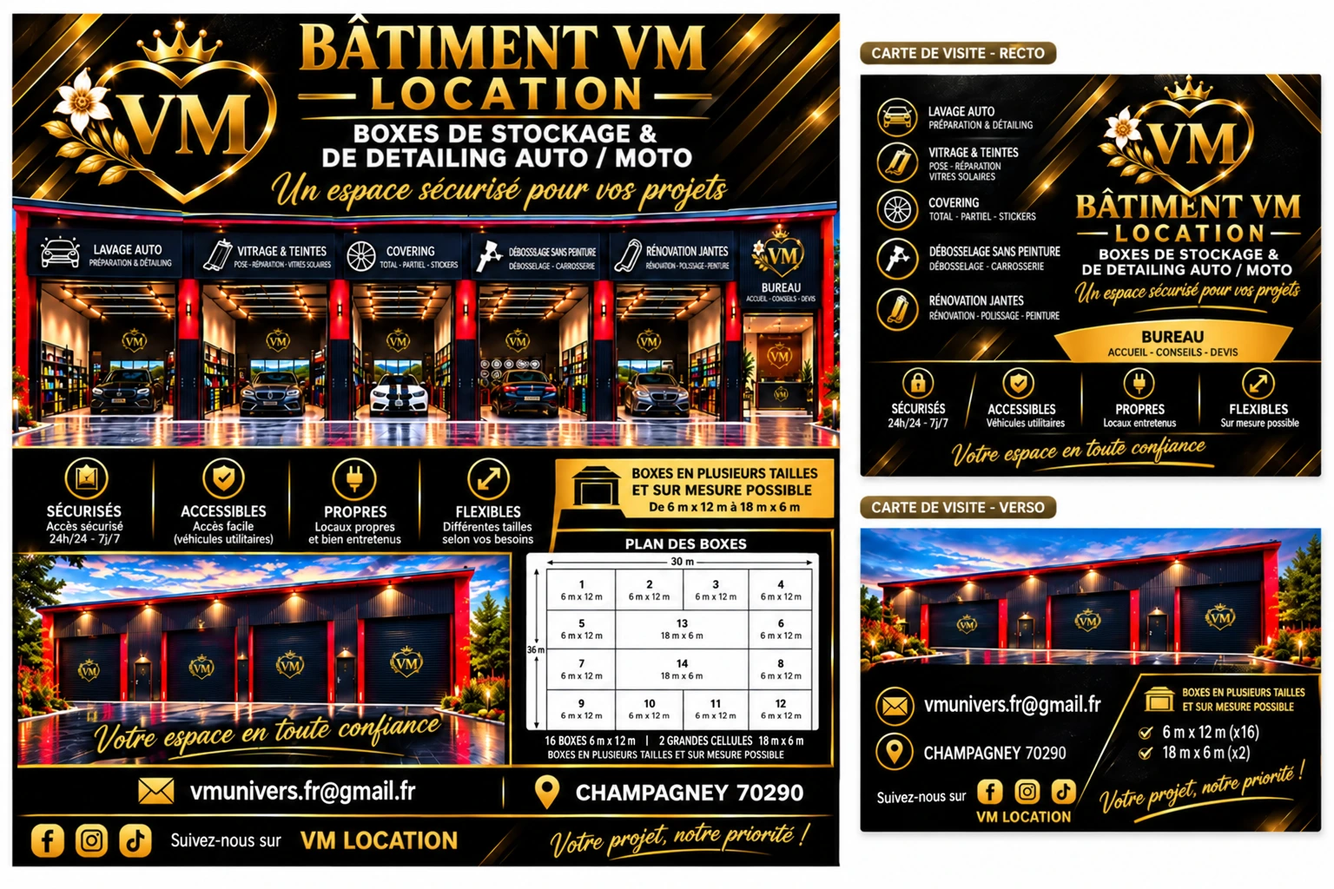
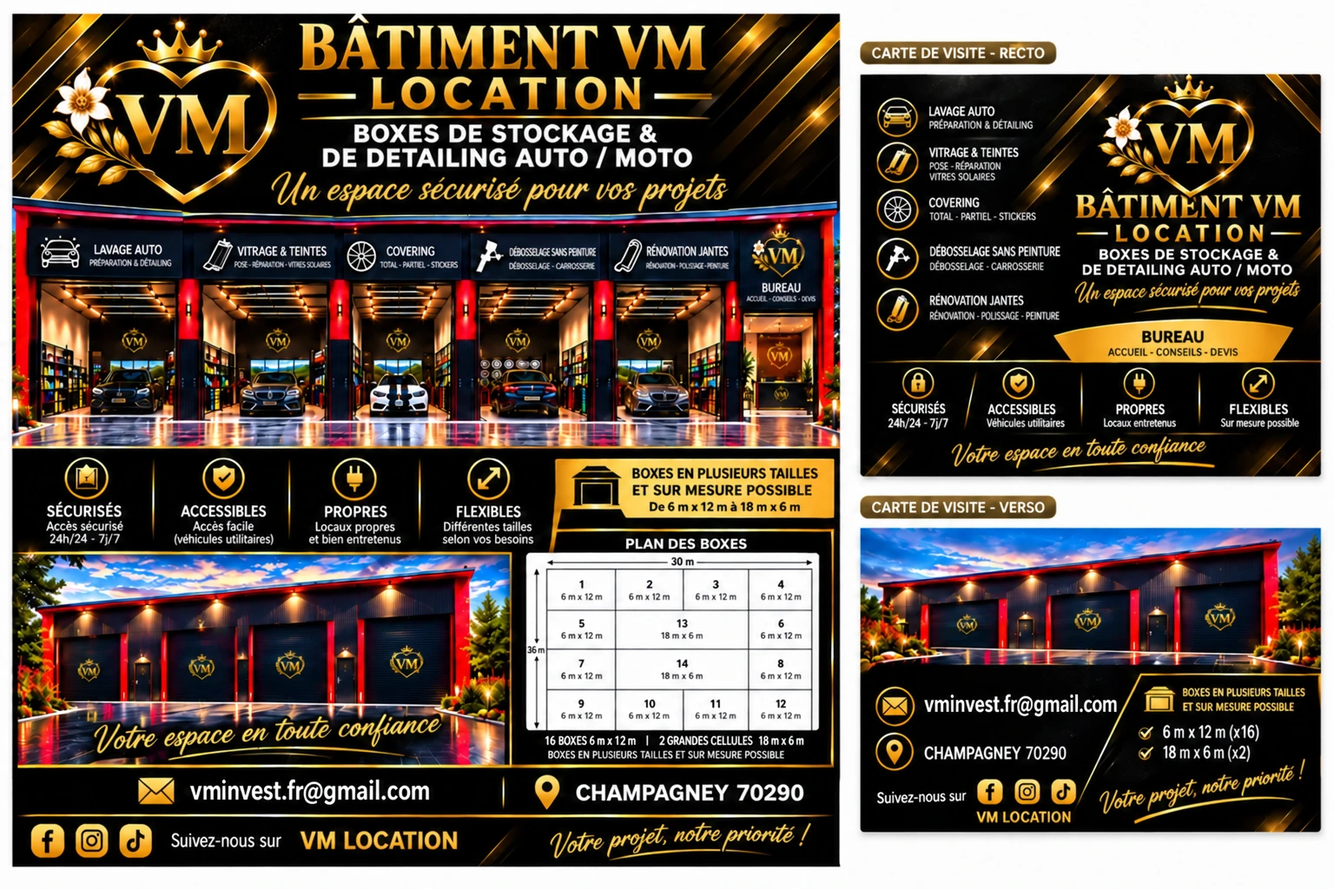
Corrige le contact des projets VM vers vminvest

diff --git a/boutique/index.html b/boutique/index.html
@@ -54,10 +54,10 @@ main{max-width:1100px;margin:0 auto;padding:10px 16px 50px}h2{font:italic 800 1.
 <header class="hero"><img src="/img/logo-vm-officiel.png" alt="Logo VM couronne" width="340" height="340"><h1>VM BOUTIQUE</h1><p>Les vêtements et goodies de l'univers VM. Imprimés à la demande et envoyés directement chez toi.</p><span class="soon">BIENTÔT DISPONIBLE</span></header>
 <main>
 <h2>La collection</h2>
-<div class="grid"><article class="p"><img src="/img/boutique/tshirt-noir.webp" alt="T-shirt VM noir" width="400" height="400" loading="lazy"><div class="pi"><h3>T-shirt VM noir</h3><p>Coton bio, logo couronne doré</p><div class="pr">29 € <small>prix prévu</small></div><a class="b" href="mailto:vmunivers.fr@gmail.fr?subject=VM%20Boutique%20-%20pr%C3%A9venez-moi%20%3A%20T-shirt%20VM%20noir&body=Bonjour%2C%20pr%C3%A9venez-moi%20quand%20%C2%AB%20T-shirt%20VM%20noir%20%C2%BB%20sera%20disponible.%20Taille%20%3A%20">🔔 Prévenez-moi</a></div></article><article class="p"><img src="/img/boutique/tshirt-blanc.webp" alt="T-shirt VM blanc" width="400" height="400" loading="lazy"><div class="pi"><h3>T-shirt VM blanc</h3><p>Coton bio, logo couronne</p><div class="pr">29 € <small>prix prévu</small></div><a class="b" href="mailto:vmunivers.fr@gmail.fr?subject=VM%20Boutique%20-%20pr%C3%A9venez-moi%20%3A%20T-shirt%20VM%20blanc&body=Bonjour%2C%20pr%C3%A9venez-moi%20quand%20%C2%AB%20T-shirt%20VM%20blanc%20%C2%BB%20sera%20disponible.%20Taille%20%3A%20">🔔 Prévenez-moi</a></div></article><article class="p"><img src="/img/boutique/sweat-noir.webp" alt="Sweat à capuche VM" width="400" height="400" loading="lazy"><div class="pi"><h3>Sweat à capuche VM</h3><p>Molleton épais, logo devant</p><div class="pr">49 € <small>prix prévu</small></div><a class="b" href="mailto:vmunivers.fr@gmail.fr?subject=VM%20Boutique%20-%20pr%C3%A9venez-moi%20%3A%20Sweat%20à%20capuche%20VM&body=Bonjour%2C%20pr%C3%A9venez-moi%20quand%20%C2%AB%20Sweat%20à%20capuche%20VM%20%C2%BB%20sera%20disponible.%20Taille%20%3A%20">🔔 Prévenez-moi</a></div></article><article class="p"><img src="/img/boutique/casquette.webp" alt="Casquette VM" width="400" height="400" loading="lazy"><div class="pi"><h3>Casquette VM</h3><p>Brodée, réglable</p><div class="pr">25 € <small>prix prévu</small></div><a class="b" href="mailto:vmunivers.fr@gmail.fr?subject=VM%20Boutique%20-%20pr%C3%A9venez-moi%20%3A%20Casquette%20VM&body=Bonjour%2C%20pr%C3%A9venez-moi%20quand%20%C2%AB%20Casquette%20VM%20%C2%BB%20sera%20disponible.%20Taille%20%3A%20">🔔 Prévenez-moi</a></div></article><article class="p"><img src="/img/boutique/mug.webp" alt="Mug VM" width="400" height="400" loading="lazy"><div class="pi"><h3>Mug VM</h3><p>Céramique 33 cl</p><div class="pr">15 € <small>prix prévu</small></div><a class="b" href="mailto:vmunivers.fr@gmail.fr?subject=VM%20Boutique%20-%20pr%C3%A9venez-moi%20%3A%20Mug%20VM&body=Bonjour%2C%20pr%C3%A9venez-moi%20quand%20%C2%AB%20Mug%20VM%20%C2%BB%20sera%20disponible.%20Taille%20%3A%20">🔔 Prévenez-moi</a></div></article><article class="p"><img src="/img/boutique/stickers.webp" alt="Stickers VM" width="400" height="400" loading="lazy"><div class="pi"><h3>Stickers VM</h3><p>Lot de 3, résistants à l'eau</p><div class="pr">6 € <small>prix prévu</small></div><a class="b" href="mailto:vmunivers.fr@gmail.fr?subject=VM%20Boutique%20-%20pr%C3%A9venez-moi%20%3A%20Stickers%20VM&body=Bonjour%2C%20pr%C3%A9venez-moi%20quand%20%C2%AB%20Stickers%20VM%20%C2%BB%20sera%20disponible.%20Taille%20%3A%20">🔔 Prévenez-moi</a></div></article><article class="p"><img src="/img/boutique/coque.webp" alt="Coque téléphone VM" width="400" height="400" loading="lazy"><div class="pi"><h3>Coque téléphone VM</h3><p>Pour la plupart des modèles</p><div class="pr">22 € <small>prix prévu</small></div><a class="b" href="mailto:vmunivers.fr@gmail.fr?subject=VM%20Boutique%20-%20pr%C3%A9venez-moi%20%3A%20Coque%20téléphone%20VM&body=Bonjour%2C%20pr%C3%A9venez-moi%20quand%20%C2%AB%20Coque%20téléphone%20VM%20%C2%BB%20sera%20disponible.%20Taille%20%3A%20">🔔 Prévenez-moi</a></div></article></div>
+<div class="grid"><article class="p"><img src="/img/boutique/tshirt-noir.webp" alt="T-shirt VM noir" width="400" height="400" loading="lazy"><div class="pi"><h3>T-shirt VM noir</h3><p>Coton bio, logo couronne doré</p><div class="pr">29 € <small>prix prévu</small></div><a class="b" href="mailto:vminvest.fr@gmail.com?subject=VM%20Boutique%20-%20pr%C3%A9venez-moi%20%3A%20T-shirt%20VM%20noir&body=Bonjour%2C%20pr%C3%A9venez-moi%20quand%20%C2%AB%20T-shirt%20VM%20noir%20%C2%BB%20sera%20disponible.%20Taille%20%3A%20">🔔 Prévenez-moi</a></div></article><article class="p"><img src="/img/boutique/tshirt-blanc.webp" alt="T-shirt VM blanc" width="400" height="400" loading="lazy"><div class="pi"><h3>T-shirt VM blanc</h3><p>Coton bio, logo couronne</p><div class="pr">29 € <small>prix prévu</small></div><a class="b" href="mailto:vminvest.fr@gmail.com?subject=VM%20Boutique%20-%20pr%C3%A9venez-moi%20%3A%20T-shirt%20VM%20blanc&body=Bonjour%2C%20pr%C3%A9venez-moi%20quand%20%C2%AB%20T-shirt%20VM%20blanc%20%C2%BB%20sera%20disponible.%20Taille%20%3A%20">🔔 Prévenez-moi</a></div></article><article class="p"><img src="/img/boutique/sweat-noir.webp" alt="Sweat à capuche VM" width="400" height="400" loading="lazy"><div class="pi"><h3>Sweat à capuche VM</h3><p>Molleton épais, logo devant</p><div class="pr">49 € <small>prix prévu</small></div><a class="b" href="mailto:vminvest.fr@gmail.com?subject=VM%20Boutique%20-%20pr%C3%A9venez-moi%20%3A%20Sweat%20à%20capuche%20VM&body=Bonjour%2C%20pr%C3%A9venez-moi%20quand%20%C2%AB%20Sweat%20à%20capuche%20VM%20%C2%BB%20sera%20disponible.%20Taille%20%3A%20">🔔 Prévenez-moi</a></div></article><article class="p"><img src="/img/boutique/casquette.webp" alt="Casquette VM" width="400" height="400" loading="lazy"><div class="pi"><h3>Casquette VM</h3><p>Brodée, réglable</p><div class="pr">25 € <small>prix prévu</small></div><a class="b" href="mailto:vminvest.fr@gmail.com?subject=VM%20Boutique%20-%20pr%C3%A9venez-moi%20%3A%20Casquette%20VM&body=Bonjour%2C%20pr%C3%A9venez-moi%20quand%20%C2%AB%20Casquette%20VM%20%C2%BB%20sera%20disponible.%20Taille%20%3A%20">🔔 Prévenez-moi</a></div></article><article class="p"><img src="/img/boutique/mug.webp" alt="Mug VM" width="400" height="400" loading="lazy"><div class="pi"><h3>Mug VM</h3><p>Céramique 33 cl</p><div class="pr">15 € <small>prix prévu</small></div><a class="b" href="mailto:vminvest.fr@gmail.com?subject=VM%20Boutique%20-%20pr%C3%A9venez-moi%20%3A%20Mug%20VM&body=Bonjour%2C%20pr%C3%A9venez-moi%20quand%20%C2%AB%20Mug%20VM%20%C2%BB%20sera%20disponible.%20Taille%20%3A%20">🔔 Prévenez-moi</a></div></article><article class="p"><img src="/img/boutique/stickers.webp" alt="Stickers VM" width="400" height="400" loading="lazy"><div class="pi"><h3>Stickers VM</h3><p>Lot de 3, résistants à l'eau</p><div class="pr">6 € <small>prix prévu</small></div><a class="b" href="mailto:vminvest.fr@gmail.com?subject=VM%20Boutique%20-%20pr%C3%A9venez-moi%20%3A%20Stickers%20VM&body=Bonjour%2C%20pr%C3%A9venez-moi%20quand%20%C2%AB%20Stickers%20VM%20%C2%BB%20sera%20disponible.%20Taille%20%3A%20">🔔 Prévenez-moi</a></div></article><article class="p"><img src="/img/boutique/coque.webp" alt="Coque téléphone VM" width="400" height="400" loading="lazy"><div class="pi"><h3>Coque téléphone VM</h3><p>Pour la plupart des modèles</p><div class="pr">22 € <small>prix prévu</small></div><a class="b" href="mailto:vminvest.fr@gmail.com?subject=VM%20Boutique%20-%20pr%C3%A9venez-moi%20%3A%20Coque%20téléphone%20VM&body=Bonjour%2C%20pr%C3%A9venez-moi%20quand%20%C2%AB%20Coque%20téléphone%20VM%20%C2%BB%20sera%20disponible.%20Taille%20%3A%20">🔔 Prévenez-moi</a></div></article></div>
 <h2>Comment ça marche</h2>
 <div class="how"><div><b>👕 Tu choisis</b>Ton article, ta taille, ta couleur.</div><div><b>🖨 On imprime</b>Chaque pièce est fabriquée à la commande : pas de stock, pas de gaspillage.</div><div><b>📦 Livré chez toi</b>Envoyé directement par l'atelier d'impression, avec suivi.</div></div>
-<p class="note">La boutique n'est pas encore ouverte : aucun paiement n'est demandé ici. Visuels provisoires, les vraies photos arrivent. Prix prévus, donnés à titre indicatif. Pour être prévenu de l'ouverture : <a href="mailto:vmunivers.fr@gmail.fr" style="color:#f4cf55">vmunivers.fr@gmail.fr</a></p>
+<p class="note">La boutique n'est pas encore ouverte : aucun paiement n'est demandé ici. Visuels provisoires, les vraies photos arrivent. Prix prévus, donnés à titre indicatif. Pour être prévenu de l'ouverture : <a href="mailto:vminvest.fr@gmail.com" style="color:#f4cf55">vminvest.fr@gmail.com</a></p>
 <p style="font-size:.78rem;color:#8d8670;text-align:center;margin-top:24px">VM Univers · activité d’entrepreneur individuel · SIRET 528 102 916 00012 – TVA non applicable, art. 293 B du CGI · <a href="/mentions-legales.html" style="color:inherit">Mentions légales</a></p>
 </main><button type="button" class="vmfab" id="vmFab" aria-haspopup="dialog">📤 Partager</button>
 <button type="button" class="vminst" id="vmInst">📲 Installer l'app</button>
@@ -101,7 +101,7 @@ ib.onclick=function(){
  if(ios){alert('Pour installer '+nom+' sur iPhone : — 1. Ouvre cette page dans Safari — 2. Bouton Partager ↑ en bas — 3. « Sur l’écran d’accueil » — 4. « Ajouter »')}
 
  try{localStorage.setItem(key,'1')}catch(e){}ib.classList.remove('show')};
-window.vmMail=function(su,bo){var to='vmunivers.fr@gmail.fr';location.href='mailto:'+to+'?subject='+encodeURIComponent(su)+'&body='+encodeURIComponent(bo);
+window.vmMail=function(su,bo){var to='vminvest.fr@gmail.com';location.href='mailto:'+to+'?subject='+encodeURIComponent(su)+'&body='+encodeURIComponent(bo);
  var d=document.getElementById('vmMailBox');if(d)d.remove();d=document.createElement('div');d.id='vmMailBox';d.setAttribute('role','dialog');
  d.style.cssText='position:fixed;left:12px;right:12px;bottom:12px;z-index:95;max-width:440px;margin:0 auto;background:#fff;color:#0b1533;border:3px solid #000;border-radius:16px;padding:14px;box-shadow:5px 5px 0 #1d3fb8;font:15px/1.4 system-ui,sans-serif';
  d.innerHTML='<b>✉ Ton appli e-mail s’ouvre avec le message prêt.</b><br>Appuie sur « Envoyer » dedans : tant que ce n’est pas fait, rien n’est envoyé.<br><small>Rien ne s’ouvre ? Copie la demande et envoie-la à '+to+'.</small><div style="display:flex;gap:8px;margin-top:10px"><button type="button" id="vmMailCp" style="flex:1;font:800 .95rem system-ui;padding:10px;border-radius:999px;border:2px solid #000;background:#f4cf55;cursor:pointer">📋 Copier la demande</button><button type="button" id="vmMailX" style="font:800 .95rem system-ui;padding:10px 14px;border-radius:999px;border:2px solid #000;background:#fff;cursor:pointer">OK</button></div>';

diff --git a/vm-location/index.html b/vm-location/index.html
@@ -105,7 +105,7 @@ img.flyer{display:block;width:100%;max-width:900px;margin:12px auto;border-radiu
 <p class="note" style="margin-top:4px">Plan indicatif, non contractuel.</p>
 
 <h2 id="contact">Contact &amp; devis gratuit</h2>
-<p class="contact">✉ <a href="mailto:vmunivers.fr@gmail.fr">vmunivers.fr@gmail.fr</a> · 📍 Champagney 70290</p>
+<p class="contact">✉ <a href="mailto:vminvest.fr@gmail.com">vminvest.fr@gmail.com</a> · 📍 Champagney 70290</p>
 <form class="form" id="f">
 <label for="q">Je suis intéressé par</label><select id="q"><option>VM Détailing (rénovation / jantes)</option><option>Un local pro (lavage, vitrage, covering, carrosserie)</option><option>Une cellule de 72 m²</option><option>Une grande cellule de 108 m²</option><option>Autre demande</option></select>
 <label for="n">Nom</label><input id="n" required>
@@ -116,7 +116,7 @@ img.flyer{display:block;width:100%;max-width:900px;margin:12px auto;border-radiu
 <img class="flyer" src="img/flyer.webp" alt="Flyer Bâtiment VM Location" loading="lazy">
 <p class="note">VM Détailing · Bâtiment VM Location · VM Univers · activité d’entrepreneur individuel · SIRET 528 102 916 00012 · Champagney 70290 · Visuels d'illustration · <a href="/mentions-legales.html">Mentions légales</a> · <a href="https://vmunivers.fr/">L'univers VM</a></p>
 </main>
-<script>document.getElementById('f').onsubmit=function(e){e.preventDefault();var g=function(i){return document.getElementById(i).value};var b='Demande : '+g('q')+'\nNom : '+g('n')+'\nTéléphone : '+g('t')+'\n\n'+g('m');location.href='mailto:vmunivers.fr@gmail.fr?subject='+encodeURIComponent('Bâtiment VM Location – '+g('q'))+'&body='+encodeURIComponent(b)};</script>
+<script>document.getElementById('f').onsubmit=function(e){e.preventDefault();var g=function(i){return document.getElementById(i).value};var b='Demande : '+g('q')+'\nNom : '+g('n')+'\nTéléphone : '+g('t')+'\n\n'+g('m');location.href='mailto:vminvest.fr@gmail.com?subject='+encodeURIComponent('Bâtiment VM Location – '+g('q'))+'&body='+encodeURIComponent(b)};</script>
 <button type="button" class="vmfab" id="vmFab" aria-haspopup="dialog">📤 Partager</button>
 <button type="button" class="vminst" id="vmInst">📲 Installer l'app</button>
 <div class="vmsh" id="vmSh" hidden role="dialog" aria-modal="true" aria-labelledby="vmShT"><div class="vmsh-box">
@@ -159,7 +159,7 @@ ib.onclick=function(){
  if(ios){alert('Pour installer '+nom+' sur iPhone : — 1. Ouvre cette page dans Safari — 2. Bouton Partager ↑ en bas — 3. « Sur l’écran d’accueil » — 4. « Ajouter »')}
 
  try{localStorage.setItem(key,'1')}catch(e){}ib.classList.remove('show')};
-window.vmMail=function(su,bo){var to='vmunivers.fr@gmail.fr';location.href='mailto:'+to+'?subject='+encodeURIComponent(su)+'&body='+encodeURIComponent(bo);
+window.vmMail=function(su,bo){var to='vminvest.fr@gmail.com';location.href='mailto:'+to+'?subject='+encodeURIComponent(su)+'&body='+encodeURIComponent(bo);
  var d=document.getElementById('vmMailBox');if(d)d.remove();d=document.createElement('div');d.id='vmMailBox';d.setAttribute('role','dialog');
  d.style.cssText='position:fixed;left:12px;right:12px;bottom:12px;z-index:95;max-width:440px;margin:0 auto;background:#fff;color:#0b1533;border:3px solid #000;border-radius:16px;padding:14px;box-shadow:5px 5px 0 #1d3fb8;font:15px/1.4 system-ui,sans-serif';
  d.innerHTML='<b>✉ Ton appli e-mail s’ouvre avec le message prêt.</b><br>Appuie sur « Envoyer » dedans : tant que ce n’est pas fait, rien n’est envoyé.<br><small>Rien ne s’ouvre ? Copie la demande et envoie-la à '+to+'.</small><div style="display:flex;gap:8px;margin-top:10px"><button type="button" id="vmMailCp" style="flex:1;font:800 .95rem system-ui;padding:10px;border-radius:999px;border:2px solid #000;background:#f4cf55;cursor:pointer">📋 Copier la demande</button><button type="button" id="vmMailX" style="font:800 .95rem system-ui;padding:10px 14px;border-radius:999px;border:2px solid #000;background:#fff;cursor:pointer">OK</button></div>';

diff --git a/pub/index.html b/pub/index.html
@@ -68,7 +68,7 @@ main{max-width:1000px;margin:0 auto;padding:16px}h2{color:#f4cf55;font:italic 80
 <button class="btn" type="button" id="go">✉ Préparer mon e-mail</button>
 <p style="font-size:.78rem;color:#8d8670;text-align:center;margin-top:24px">VM Univers · activité d’entrepreneur individuel · SIRET 528 102 916 00012 – TVA non applicable, art. 293 B du CGI · <a href="/mentions-legales.html" style="color:inherit">Mentions légales</a></p>
 </main>
-<script>document.getElementById('go').onclick=function(){var b='Bonjour,\n\nJe souhaite réserver un encart publicitaire.\n\nCommerce :\nVille :\nOffre choisie :\nTéléphone :\n';if(window.vmMail)vmMail('Publicité VM – réservation',b);else location.href='mailto:vmunivers.fr@gmail.fr?subject=Publicit%C3%A9%20VM&body='+encodeURIComponent(b)};</script>
+<script>document.getElementById('go').onclick=function(){var b='Bonjour,\n\nJe souhaite réserver un encart publicitaire.\n\nCommerce :\nVille :\nOffre choisie :\nTéléphone :\n';if(window.vmMail)vmMail('Publicité VM – réservation',b);else location.href='mailto:vminvest.fr@gmail.com?subject=Publicit%C3%A9%20VM&body='+encodeURIComponent(b)};</script>
 <button type="button" class="vmfab" id="vmFab" aria-haspopup="dialog">📤 Partager</button>
 <button type="button" class="vminst" id="vmInst">📲 Installer l'app</button>
 <div class="vmsh" id="vmSh" hidden role="dialog" aria-modal="true" aria-labelledby="vmShT"><div class="vmsh-box">
@@ -111,7 +111,7 @@ ib.onclick=function(){
  if(ios){alert('Pour installer '+nom+' sur iPhone : — 1. Ouvre cette page dans Safari — 2. Bouton Partager ↑ en bas — 3. « Sur l’écran d’accueil » — 4. « Ajouter »')}
 
  try{localStorage.setItem(key,'1')}catch(e){}ib.classList.remove('show')};
-window.vmMail=function(su,bo){var to='vmunivers.fr@gmail.fr';location.href='mailto:'+to+'?subject='+encodeURIComponent(su)+'&body='+encodeURIComponent(bo);
+window.vmMail=function(su,bo){var to='vminvest.fr@gmail.com';location.href='mailto:'+to+'?subject='+encodeURIComponent(su)+'&body='+encodeURIComponent(bo);
  var d=document.getElementById('vmMailBox');if(d)d.remove();d=document.createElement('div');d.id='vmMailBox';d.setAttribute('role','dialog');
  d.style.cssText='position:fixed;left:12px;right:12px;bottom:12px;z-index:95;max-width:440px;margin:0 auto;background:#fff;color:#0b1533;border:3px solid #000;border-radius:16px;padding:14px;box-shadow:5px 5px 0 #1d3fb8;font:15px/1.4 system-ui,sans-serif';
  d.innerHTML='<b>✉ Ton appli e-mail s’ouvre avec le message prêt.</b><br>Appuie sur « Envoyer » dedans : tant que ce n’est pas fait, rien n’est envoyé.<br><small>Rien ne s’ouvre ? Copie la demande et envoie-la à '+to+'.</small><div style="display:flex;gap:8px;margin-top:10px"><button type="button" id="vmMailCp" style="flex:1;font:800 .95rem system-ui;padding:10px;border-radius:999px;border:2px solid #000;background:#f4cf55;cursor:pointer">📋 Copier la demande</button><button type="button" id="vmMailX" style="font:800 .95rem system-ui;padding:10px 14px;border-radius:999px;border:2px solid #000;background:#fff;cursor:pointer">OK</button></div>';

diff --git a/pro-auto/index.html b/pro-auto/index.html
@@ -100,7 +100,7 @@ $('q').oninput=draw;
 C.onclick=function(e){var b=e.target.closest('button');if(!b)return;cat=b.dataset.c;[].forEach.call(C.children,function(x){x.classList.toggle('on',x===b)});draw()};
 $('tabs').onclick=function(e){var b=e.target.closest('button');if(!b)return;vue=b.dataset.v;[].forEach.call(this.children,function(x){x.classList.toggle('on',x===b)});$('v-pros').hidden=vue!=='pros';$('v-ann').hidden=vue!=='ann';draw()};
 $('f').onsubmit=function(e){e.preventDefault();var k=$('kind');var b='Annonce VM Auto Particulier\n\nType : '+k.options[k.selectedIndex].text+'\nCatégorie : '+nomCat($('cat').value)+'\nTitre : '+$('ti').value+'\nVille : '+$('vi').value+' ('+$('dep').value+')'+'\nDétails : '+$('de').value+'\nContact : '+$('ct').value+'\n\nJ\'accepte la publication après vérification.';
- if(window.vmMail)vmMail('VM Auto Particulier – '+$('ti').value,b);else location.href='mailto:vmunivers.fr@gmail.fr?subject='+encodeURIComponent('VM Auto Particulier – '+$('ti').value)+'&body='+encodeURIComponent(b)};
+ if(window.vmMail)vmMail('VM Auto Particulier – '+$('ti').value,b);else location.href='mailto:vminvest.fr@gmail.com?subject='+encodeURIComponent('VM Auto Particulier – '+$('ti').value)+'&body='+encodeURIComponent(b)};
 })();
 </script>
 <button type="button" class="vmfab" id="vmFab" aria-haspopup="dialog">📤 Partager</button>
@@ -145,7 +145,7 @@ ib.onclick=function(){
  if(ios){alert('Pour installer '+nom+' sur iPhone : — 1. Ouvre cette page dans Safari — 2. Bouton Partager ↑ en bas — 3. « Sur l’écran d’accueil » — 4. « Ajouter »')}
 
  try{localStorage.setItem(key,'1')}catch(e){}ib.classList.remove('show')};
-window.vmMail=function(su,bo){var to='vmunivers.fr@gmail.fr';location.href='mailto:'+to+'?subject='+encodeURIComponent(su)+'&body='+encodeURIComponent(bo);
+window.vmMail=function(su,bo){var to='vminvest.fr@gmail.com';location.href='mailto:'+to+'?subject='+encodeURIComponent(su)+'&body='+encodeURIComponent(bo);
  var d=document.getElementById('vmMailBox');if(d)d.remove();d=document.createElement('div');d.id='vmMailBox';d.setAttribute('role','dialog');
  d.style.cssText='position:fixed;left:12px;right:12px;bottom:12px;z-index:95;max-width:440px;margin:0 auto;background:#fff;color:#0b1533;border:3px solid #000;border-radius:16px;padding:14px;box-shadow:5px 5px 0 #1d3fb8;font:15px/1.4 system-ui,sans-serif';
  d.innerHTML='<b>✉ Ton appli e-mail s’ouvre avec le message prêt.</b><br>Appuie sur « Envoyer » dedans : tant que ce n’est pas fait, rien n’est envoyé.<br><small>Rien ne s’ouvre ? Copie la demande et envoie-la à '+to+'.</small><div style="display:flex;gap:8px;margin-top:10px"><button type="button" id="vmMailCp" style="flex:1;font:800 .95rem system-ui;padding:10px;border-radius:999px;border:2px solid #000;background:#f4cf55;cursor:pointer">📋 Copier la demande</button><button type="button" id="vmMailX" style="font:800 .95rem system-ui;padding:10px 14px;border-radius:999px;border:2px solid #000;background:#fff;cursor:pointer">OK</button></div>';

diff --git a/shop/index.html b/shop/index.html
@@ -115,7 +115,7 @@ a:focus-visible,button:focus-visible,input:focus-visible,select:focus-visible,te
 <li>✅ Chaque annonce est <b>relue par VM</b> avant publication, et retirée quand l'objet est vendu.</li>
 <li>⛔ Interdit : <b>contrefaçons</b> (faux maillots, faux jeux), objets volés, armes, alcool, tabac, médicaments, comptes de jeux ou codes piratés, billets de match revendus plus cher.</li>
 <li>⛔ Pas d'annonces de <b>mineurs</b> sans l'accord d'un parent.</li>
-<li>🛡 Anti-arnaque : remise en main propre dans un lieu public, ne payez jamais avant d'avoir vu l'objet, méfiez-vous des prix trop bas et des demandes de paiement par coupon. Signalez tout problème : <a href="mailto:vmunivers.fr@gmail.fr?subject=VM%20Shop%20%3A%20signalement">vmunivers.fr@gmail.fr</a>.</li>
+<li>🛡 Anti-arnaque : remise en main propre dans un lieu public, ne payez jamais avant d'avoir vu l'objet, méfiez-vous des prix trop bas et des demandes de paiement par coupon. Signalez tout problème : <a href="mailto:vminvest.fr@gmail.com?subject=VM%20Shop%20%3A%20signalement">vminvest.fr@gmail.com</a>.</li>
 <li>🔒 Vos coordonnées n'apparaissent que si vous le demandez (pseudo Discord ou e-mail de votre choix).</li>
 </ul>
 </section>
@@ -221,7 +221,7 @@ ib.onclick=function(){
  if(ios){alert('Pour installer '+nom+' sur iPhone : — 1. Ouvre cette page dans Safari — 2. Bouton Partager ↑ en bas — 3. « Sur l’écran d’accueil » — 4. « Ajouter »')}
 
  try{localStorage.setItem(key,'1')}catch(e){}ib.classList.remove('show')};
-window.vmMail=function(su,bo){var to='vmunivers.fr@gmail.fr';location.href='mailto:'+to+'?subject='+encodeURIComponent(su)+'&body='+encodeURIComponent(bo);
+window.vmMail=function(su,bo){var to='vminvest.fr@gmail.com';location.href='mailto:'+to+'?subject='+encodeURIComponent(su)+'&body='+encodeURIComponent(bo);
  var d=document.getElementById('vmMailBox');if(d)d.remove();d=document.createElement('div');d.id='vmMailBox';d.setAttribute('role','dialog');
  d.style.cssText='position:fixed;left:12px;right:12px;bottom:12px;z-index:95;max-width:440px;margin:0 auto;background:#fff;color:#0b1533;border:3px solid #000;border-radius:16px;padding:14px;box-shadow:5px 5px 0 #1d3fb8;font:15px/1.4 system-ui,sans-serif';
  d.innerHTML='<b>✉ Ton appli e-mail s’ouvre avec le message prêt.</b><br>Appuie sur « Envoyer » dedans : tant que ce n’est pas fait, rien n’est envoyé.<br><small>Rien ne s’ouvre ? Copie la demande et envoie-la à '+to+'.</small><div style="display:flex;gap:8px;margin-top:10px"><button type="button" id="vmMailCp" style="flex:1;font:800 .95rem system-ui;padding:10px;border-radius:999px;border:2px solid #000;background:#f4cf55;cursor:pointer">📋 Copier la demande</button><button type="button" id="vmMailX" style="font:800 .95rem system-ui;padding:10px 14px;border-radius:999px;border:2px solid #000;background:#fff;cursor:pointer">OK</button></div>';

diff --git a/allolivre/index.html b/allolivre/index.html
@@ -124,7 +124,7 @@ a:focus-visible,button:focus-visible,input:focus-visible,select:focus-visible,te
 <li>✅ Les achats sont remboursés <b>sur présentation du ticket</b>. Un petit dédommagement est possible si vous vous mettez d'accord <b>avant</b>.</li>
 <li>⛔ Interdit : alcool, tabac, médicaments sur ordonnance, argent liquide à transporter, objets de valeur, animaux, colis dont on ne connaît pas le contenu.</li>
 <li>🛡 Rencontre-toi en sécurité : premier contact par téléphone, livraison à la porte, pas d'entrée chez les gens.</li>
-<li>📵 Un souci ? Écris-nous : <a href="mailto:vmunivers.fr@gmail.fr?subject=AlloLivre%20%3A%20signalement">vmunivers.fr@gmail.fr</a>.</li>
+<li>📵 Un souci ? Écris-nous : <a href="mailto:vminvest.fr@gmail.com?subject=AlloLivre%20%3A%20signalement">vminvest.fr@gmail.com</a>.</li>
 </ul>
 <div class="warn"><b>Phase test :</b> AlloLivre met des voisins en relation, il ne réalise pas lui-même les livraisons et ne prend aucune commission. Aucun paiement ne passe par ce site. Si un jour des livreurs sont rémunérés régulièrement, ils devront avoir un statut (micro-entreprise) et une assurance adaptée.</div></div>
 </main>
@@ -179,7 +179,7 @@ ib.onclick=function(){
  if(ios){alert('Pour installer '+nom+' sur iPhone : — 1. Ouvre cette page dans Safari — 2. Bouton Partager ↑ en bas — 3. « Sur l’écran d’accueil » — 4. « Ajouter »')}
 
  try{localStorage.setItem(key,'1')}catch(e){}ib.classList.remove('show')};
-window.vmMail=function(su,bo){var to='vmunivers.fr@gmail.fr';location.href='mailto:'+to+'?subject='+encodeURIComponent(su)+'&body='+encodeURIComponent(bo);
+window.vmMail=function(su,bo){var to='vminvest.fr@gmail.com';location.href='mailto:'+to+'?subject='+encodeURIComponent(su)+'&body='+encodeURIComponent(bo);
  var d=document.getElementById('vmMailBox');if(d)d.remove();d=document.createElement('div');d.id='vmMailBox';d.setAttribute('role','dialog');
  d.style.cssText='position:fixed;left:12px;right:12px;bottom:12px;z-index:95;max-width:440px;margin:0 auto;background:#fff;color:#0b1533;border:3px solid #000;border-radius:16px;padding:14px;box-shadow:5px 5px 0 #1d3fb8;font:15px/1.4 system-ui,sans-serif';
  d.innerHTML='<b>✉ Ton appli e-mail s’ouvre avec le message prêt.</b><br>Appuie sur « Envoyer » dedans : tant que ce n’est pas fait, rien n’est envoyé.<br><small>Rien ne s’ouvre ? Copie la demande et envoie-la à '+to+'.</small><div style="display:flex;gap:8px;margin-top:10px"><button type="button" id="vmMailCp" style="flex:1;font:800 .95rem system-ui;padding:10px;border-radius:999px;border:2px solid #000;background:#f4cf55;cursor:pointer">📋 Copier la demande</button><button type="button" id="vmMailX" style="font:800 .95rem system-ui;padding:10px 14px;border-radius:999px;border:2px solid #000;background:#fff;cursor:pointer">OK</button></div>';

diff --git a/pro/index.html b/pro/index.html
@@ -85,7 +85,7 @@ function draw(){var q=norm($('q').value),v=norm($('v').value);var L=pros.filter(
 fetch('pros.json',{cache:'no-store'}).then(function(r){return r.json()}).then(function(d){pros=Array.isArray(d)?d:[];draw()}).catch(function(){draw()});
 $('q').oninput=draw;$('v').oninput=draw;
 $('f').onsubmit=function(e){e.preventDefault();var b='Inscription VM Pro Local\n\nEntreprise : '+$('n').value+'\nMétier : '+$('m').value+'\nVille : '+$('vi').value+'\nTéléphone : '+$('t').value+'\nSite : '+$('w').value+'\nDescription : '+$('d').value+'\n\nJ\'accepte l\'affichage public de ces informations professionnelles.';
- if(window.vmMail)vmMail('VM Pro Local – inscription : '+$('n').value,b);else location.href='mailto:vmunivers.fr@gmail.fr?subject='+encodeURIComponent('VM Pro Local – inscription')+'&body='+encodeURIComponent(b)};
+ if(window.vmMail)vmMail('VM Pro Local – inscription : '+$('n').value,b);else location.href='mailto:vminvest.fr@gmail.com?subject='+encodeURIComponent('VM Pro Local – inscription')+'&body='+encodeURIComponent(b)};
 })();
 </script>
 <button type="button" class="vmfab" id="vmFab" aria-haspopup="dialog">📤 Partager</button>
@@ -130,7 +130,7 @@ ib.onclick=function(){
  if(ios){alert('Pour installer '+nom+' sur iPhone : — 1. Ouvre cette page dans Safari — 2. Bouton Partager ↑ en bas — 3. « Sur l’écran d’accueil » — 4. « Ajouter »')}
 
  try{localStorage.setItem(key,'1')}catch(e){}ib.classList.remove('show')};
-window.vmMail=function(su,bo){var to='vmunivers.fr@gmail.fr';location.href='mailto:'+to+'?subject='+encodeURIComponent(su)+'&body='+encodeURIComponent(bo);
+window.vmMail=function(su,bo){var to='vminvest.fr@gmail.com';location.href='mailto:'+to+'?subject='+encodeURIComponent(su)+'&body='+encodeURIComponent(bo);
  var d=document.getElementById('vmMailBox');if(d)d.remove();d=document.createElement('div');d.id='vmMailBox';d.setAttribute('role','dialog');
  d.style.cssText='position:fixed;left:12px;right:12px;bottom:12px;z-index:95;max-width:440px;margin:0 auto;background:#fff;color:#0b1533;border:3px solid #000;border-radius:16px;padding:14px;box-shadow:5px 5px 0 #1d3fb8;font:15px/1.4 system-ui,sans-serif';
  d.innerHTML='<b>✉ Ton appli e-mail s’ouvre avec le message prêt.</b><br>Appuie sur « Envoyer » dedans : tant que ce n’est pas fait, rien n’est envoyé.<br><small>Rien ne s’ouvre ? Copie la demande et envoie-la à '+to+'.</small><div style="display:flex;gap:8px;margin-top:10px"><button type="button" id="vmMailCp" style="flex:1;font:800 .95rem system-ui;padding:10px;border-radius:999px;border:2px solid #000;background:#f4cf55;cursor:pointer">📋 Copier la demande</button><button type="button" id="vmMailX" style="font:800 .95rem system-ui;padding:10px 14px;border-radius:999px;border:2px solid #000;background:#fff;cursor:pointer">OK</button></div>';

diff --git a/web-studio.html b/web-studio.html
@@ -139,7 +139,7 @@ a:focus-visible,button:focus-visible,input:focus-visible,select:focus-visible,te
 </div>
 <p style="font-size:.78rem;color:#8d8670;text-align:center;margin-top:24px">VM Univers · activité d’entrepreneur individuel · SIRET 528 102 916 00012 – TVA non applicable, art. 293 B du CGI · <a href="/mentions-legales.html" style="color:inherit">Mentions légales</a></p>
 </main>
-<footer>Véloce Web Studio · un projet du <a href="https://vmunivers.fr/">Groupe VM</a> · vmunivers.fr@gmail.fr</footer>
+<footer>Véloce Web Studio · un projet du <a href="https://vmunivers.fr/">Groupe VM</a> · vminvest.fr@gmail.com</footer>
 <script>
 document.getElementById('devisForm').addEventListener('submit',function(e){e.preventDefault();
 var n=document.getElementById('f-nom').value.trim(),t=document.getElementById('f-type').value,m=document.getElementById('f-msg').value.trim();
@@ -188,7 +188,7 @@ ib.onclick=function(){
  if(ios){alert('Pour installer '+nom+' sur iPhone : — 1. Ouvre cette page dans Safari — 2. Bouton Partager ↑ en bas — 3. « Sur l’écran d’accueil » — 4. « Ajouter »')}
 
  try{localStorage.setItem(key,'1')}catch(e){}ib.classList.remove('show')};
-window.vmMail=function(su,bo){var to='vmunivers.fr@gmail.fr';location.href='mailto:'+to+'?subject='+encodeURIComponent(su)+'&body='+encodeURIComponent(bo);
+window.vmMail=function(su,bo){var to='vminvest.fr@gmail.com';location.href='mailto:'+to+'?subject='+encodeURIComponent(su)+'&body='+encodeURIComponent(bo);
  var d=document.getElementById('vmMailBox');if(d)d.remove();d=document.createElement('div');d.id='vmMailBox';d.setAttribute('role','dialog');
  d.style.cssText='position:fixed;left:12px;right:12px;bottom:12px;z-index:95;max-width:440px;margin:0 auto;background:#fff;color:#0b1533;border:3px solid #000;border-radius:16px;padding:14px;box-shadow:5px 5px 0 #1d3fb8;font:15px/1.4 system-ui,sans-serif';
  d.innerHTML='<b>✉ Ton appli e-mail s’ouvre avec le message prêt.</b><br>Appuie sur « Envoyer » dedans : tant que ce n’est pas fait, rien n’est envoyé.<br><small>Rien ne s’ouvre ? Copie la demande et envoie-la à '+to+'.</small><div style="display:flex;gap:8px;margin-top:10px"><button type="button" id="vmMailCp" style="flex:1;font:800 .95rem system-ui;padding:10px;border-radius:999px;border:2px solid #000;background:#f4cf55;cursor:pointer">📋 Copier la demande</button><button type="button" id="vmMailX" style="font:800 .95rem system-ui;padding:10px 14px;border-radius:999px;border:2px solid #000;background:#fff;cursor:pointer">OK</button></div>';

diff --git a/comparateur/index.html b/comparateur/index.html
@@ -184,7 +184,7 @@ ib.onclick=function(){
  if(ios){alert('Pour installer '+nom+' sur iPhone : — 1. Ouvre cette page dans Safari — 2. Bouton Partager ↑ en bas — 3. « Sur l’écran d’accueil » — 4. « Ajouter »')}
 
  try{localStorage.setItem(key,'1')}catch(e){}ib.classList.remove('show')};
-window.vmMail=function(su,bo){var to='vmunivers.fr@gmail.fr';location.href='mailto:'+to+'?subject='+encodeURIComponent(su)+'&body='+encodeURIComponent(bo);
+window.vmMail=function(su,bo){var to='vminvest.fr@gmail.com';location.href='mailto:'+to+'?subject='+encodeURIComponent(su)+'&body='+encodeURIComponent(bo);
  var d=document.getElementById('vmMailBox');if(d)d.remove();d=document.createElement('div');d.id='vmMailBox';d.setAttribute('role','dialog');
  d.style.cssText='position:fixed;left:12px;right:12px;bottom:12px;z-index:95;max-width:440px;margin:0 auto;background:#fff;color:#0b1533;border:3px solid #000;border-radius:16px;padding:14px;box-shadow:5px 5px 0 #1d3fb8;font:15px/1.4 system-ui,sans-serif';
  d.innerHTML='<b>✉ Ton appli e-mail s’ouvre avec le message prêt.</b><br>Appuie sur « Envoyer » dedans : tant que ce n’est pas fait, rien n’est envoyé.<br><small>Rien ne s’ouvre ? Copie la demande et envoie-la à '+to+'.</small><div style="display:flex;gap:8px;margin-top:10px"><button type="button" id="vmMailCp" style="flex:1;font:800 .95rem system-ui;padding:10px;border-radius:999px;border:2px solid #000;background:#f4cf55;cursor:pointer">📋 Copier la demande</button><button type="button" id="vmMailX" style="font:800 .95rem system-ui;padding:10px 14px;border-radius:999px;border:2px solid #000;background:#fff;cursor:pointer">OK</button></div>';

diff --git a/cv/index.html b/cv/index.html
@@ -158,7 +158,7 @@ ib.onclick=function(){
  if(ios){alert('Pour installer '+nom+' sur iPhone : — 1. Ouvre cette page dans Safari — 2. Bouton Partager ↑ en bas — 3. « Sur l’écran d’accueil » — 4. « Ajouter »')}
 
  try{localStorage.setItem(key,'1')}catch(e){}ib.classList.remove('show')};
-window.vmMail=function(su,bo){var to='vmunivers.fr@gmail.fr';location.href='mailto:'+to+'?subject='+encodeURIComponent(su)+'&body='+encodeURIComponent(bo);
+window.vmMail=function(su,bo){var to='vminvest.fr@gmail.com';location.href='mailto:'+to+'?subject='+encodeURIComponent(su)+'&body='+encodeURIComponent(bo);
  var d=document.getElementById('vmMailBox');if(d)d.remove();d=document.createElement('div');d.id='vmMailBox';d.setAttribute('role','dialog');
  d.style.cssText='position:fixed;left:12px;right:12px;bottom:12px;z-index:95;max-width:440px;margin:0 auto;background:#fff;color:#0b1533;border:3px solid #000;border-radius:16px;padding:14px;box-shadow:5px 5px 0 #1d3fb8;font:15px/1.4 system-ui,sans-serif';
  d.innerHTML='<b>✉ Ton appli e-mail s’ouvre avec le message prêt.</b><br>Appuie sur « Envoyer » dedans : tant que ce n’est pas fait, rien n’est envoyé.<br><small>Rien ne s’ouvre ? Copie la demande et envoie-la à '+to+'.</small><div style="display:flex;gap:8px;margin-top:10px"><button type="button" id="vmMailCp" style="flex:1;font:800 .95rem system-ui;padding:10px;border-radius:999px;border:2px solid #000;background:#f4cf55;cursor:pointer">📋 Copier la demande</button><button type="button" id="vmMailX" style="font:800 .95rem system-ui;padding:10px 14px;border-radius:999px;border:2px solid #000;background:#fff;cursor:pointer">OK</button></div>';

diff --git a/emploi/index.html b/emploi/index.html
@@ -122,7 +122,7 @@ ib.onclick=function(){
  if(ios){alert('Pour installer '+nom+' sur iPhone : — 1. Ouvre cette page dans Safari — 2. Bouton Partager ↑ en bas — 3. « Sur l’écran d’accueil » — 4. « Ajouter »')}
 
  try{localStorage.setItem(key,'1')}catch(e){}ib.classList.remove('show')};
-window.vmMail=function(su,bo){var to='vmunivers.fr@gmail.fr';location.href='mailto:'+to+'?subject='+encodeURIComponent(su)+'&body='+encodeURIComponent(bo);
+window.vmMail=function(su,bo){var to='vminvest.fr@gmail.com';location.href='mailto:'+to+'?subject='+encodeURIComponent(su)+'&body='+encodeURIComponent(bo);
  var d=document.getElementById('vmMailBox');if(d)d.remove();d=document.createElement('div');d.id='vmMailBox';d.setAttribute('role','dialog');
  d.style.cssText='position:fixed;left:12px;right:12px;bottom:12px;z-index:95;max-width:440px;margin:0 auto;background:#fff;color:#0b1533;border:3px solid #000;border-radius:16px;padding:14px;box-shadow:5px 5px 0 #1d3fb8;font:15px/1.4 system-ui,sans-serif';
  d.innerHTML='<b>✉ Ton appli e-mail s’ouvre avec le message prêt.</b><br>Appuie sur « Envoyer » dedans : tant que ce n’est pas fait, rien n’est envoyé.<br><small>Rien ne s’ouvre ? Copie la demande et envoie-la à '+to+'.</small><div style="display:flex;gap:8px;margin-top:10px"><button type="button" id="vmMailCp" style="flex:1;font:800 .95rem system-ui;padding:10px;border-radius:999px;border:2px solid #000;background:#f4cf55;cursor:pointer">📋 Copier la demande</button><button type="button" id="vmMailX" style="font:800 .95rem system-ui;padding:10px 14px;border-radius:999px;border:2px solid #000;background:#fff;cursor:pointer">OK</button></div>';

diff --git a/menu/index.html b/menu/index.html
@@ -149,7 +149,7 @@ ib.onclick=function(){
  if(ios){alert('Pour installer '+nom+' sur iPhone : — 1. Ouvre cette page dans Safari — 2. Bouton Partager ↑ en bas — 3. « Sur l’écran d’accueil » — 4. « Ajouter »')}
 
  try{localStorage.setItem(key,'1')}catch(e){}ib.classList.remove('show')};
-window.vmMail=function(su,bo){var to='vmunivers.fr@gmail.fr';location.href='mailto:'+to+'?subject='+encodeURIComponent(su)+'&body='+encodeURIComponent(bo);
+window.vmMail=function(su,bo){var to='vminvest.fr@gmail.com';location.href='mailto:'+to+'?subject='+encodeURIComponent(su)+'&body='+encodeURIComponent(bo);
  var d=document.getElementById('vmMailBox');if(d)d.remove();d=document.createElement('div');d.id='vmMailBox';d.setAttribute('role','dialog');
  d.style.cssText='position:fixed;left:12px;right:12px;bottom:12px;z-index:95;max-width:440px;margin:0 auto;background:#fff;color:#0b1533;border:3px solid #000;border-radius:16px;padding:14px;box-shadow:5px 5px 0 #1d3fb8;font:15px/1.4 system-ui,sans-serif';
  d.innerHTML='<b>✉ Ton appli e-mail s’ouvre avec le message prêt.</b><br>Appuie sur « Envoyer » dedans : tant que ce n’est pas fait, rien n’est envoyé.<br><small>Rien ne s’ouvre ? Copie la demande et envoie-la à '+to+'.</small><div style="display:flex;gap:8px;margin-top:10px"><button type="button" id="vmMailCp" style="flex:1;font:800 .95rem system-ui;padding:10px;border-radius:999px;border:2px solid #000;background:#f4cf55;cursor:pointer">📋 Copier la demande</button><button type="button" id="vmMailX" style="font:800 .95rem system-ui;padding:10px 14px;border-radius:999px;border:2px solid #000;background:#fff;cursor:pointer">OK</button></div>';
